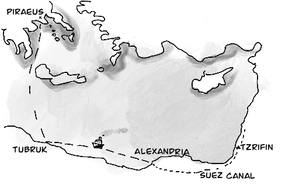
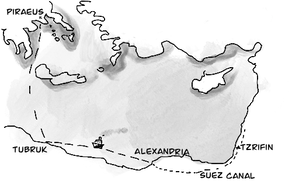
🐛  fixed some pages ending with images

Changed region(s): [[0.0, 0.0, 0.9555, 0.989], [0.0925, 0.5495, 0.1233, 0.6319], [0.2158, 0.8242, 0.2466, 0.8516]]

diff --git a/docs/index.html b/docs/index.html
@@ -442,7 +442,7 @@
             energy.</p>
 
           <figure>
-            <img src="./images/map-bike-trip.png" width="225" height="150"
+            <img src="./images/map-bike-trip.png" width="225" height="150" style="width:200px"
               alt="Map of the 500km cycle from Hessen to Berlin" />
             <figcaption>Cycling From Hessen to Berlin in 24 hours</figcaption>
           </figure>
@@ -829,7 +829,7 @@
             In the worst case scenario it required 2 men to operate, while the rest moved to work in construction.</p>
 
           <figure>
-            <img src="./images/mccormick.png" width="153" height="200" alt="Illustration of a McCormick Hay Presser" />
+            <img src="./images/mccormick.png" width="153" height="185" alt="Illustration of a McCormick Hay Presser" />
             <figcaption>McCormick Hay Presser</figcaption>
           </figure>
         </section>
@@ -1140,7 +1140,7 @@
         <section class="page_content">
           <h2>War</h2>
           <figure>
-            <img src="./images/map-mediterranean.png" width="292" height="195" alt="Map of the Mediterranean sea" />
+            <img src="./images/map-mediterranean.png" width="292" height="182" alt="Map of the Mediterranean sea" />
             <figcaption>Military Service around the Mediterranean</figcaption>
           </figure>
           <p>
@@ -1716,7 +1716,10 @@
             everyone was already asleep. My escort already left and the guard at the gate sent me to a vacant building
             with broken windows. With no blankets, I used straw mattresses to cover myself and I was cold through the
             night.</p>
-
+        </section>
+      </article>
+      <article class="page">
+        <section class="page_content">
           <p>
             In the morning an English doctor examined me and didn’t find anything, but a German doctor who stood by
             asked me to describe my pain. As I did, he immediately hospitalised me. Indeed, the hospital was run by
@@ -1730,14 +1733,17 @@
             building with horrible conditions, but I was lucky that my rank allowed me to stay at the English/Canadian
             building. I spent the time fixing watches and sewing collars, slippers and shortening trousers. These odd
             jobs paid with cigarettes that were used as currency for buying food. The situation wasn’t at all bad.</p>
+
+          <p>
+            Every day we would hear in big speakers the latest news about German advancement in Russia and the common
+            belief that by next Christmas this will all be over and we would go back home. We were sure of it.
+          </p>
         </section>
       </article>
       <article class="page">
         <section class="page_content">
           <p>
-            Every day we would hear in big speakers the latest news about German advancement in Russia and the common
-            belief that by next Christmas this will all be over and we would go back home. We were sure of it. One day,
-            new prisoners arrived - French Canadians who tried to invade <a
+            One day, new prisoners arrived - French Canadians who tried to invade <a
               href="https://en.wikipedia.org/wiki/Dieppe_Raid" target="_blank" rel="noreferrer noopener">Dieppe</a>
             (Normandy, France). It was a cliff area and the Germans were sure it would be impenetrable. At night time
             the British brought the Canadian commandos by boat, shot roped anchors and used them to climb the rocks,
@@ -1747,10 +1753,7 @@
             the Red-Cross parcel strings (they didn’t have any of their own) to tie our hands. They then patrolled
             amongst us to make sure we didn't decuff ourselves. In the evening they would untie us and tie us again the
             next day.</p>
-        </section>
-      </article>
-      <article class="page">
-        <section class="page_content">
+
           <p>It wasn’t comfortable as it was very cold and we couldn’t put hands in our pockets. After a few day they
             broughts handcuffs from the prison with a 30cm chain between them, but not for everyone. In the evening when
             they came to collect the strings and chains they were surprised that everyone was back in strings again (and
@@ -2849,8 +2852,8 @@
             and Shoshana will bring them back home. We are making big preparations and if you don’t come, it’ll all be
             ruined as we don’t have a fridge.</p>
 
-          <figure class="photo" style="width:251px">
-            <img src="./images/letter-2.png" alt="An Invitation" height="320" width="251" />
+          <figure class="photo" style="width:240px">
+            <img src="./images/letter-2.png" alt="An Invitation" height="306" width="240" />
             <figcaption>An Invitation</figcaption>
           </figure>
         </section>

diff --git a/docs/index.css b/docs/index.css
@@ -678,6 +678,8 @@ h2 {
 figure {
   display: block;
   text-align: center; }
+  figure:last-child {
+    margin-bottom: 0; }
   figure img {
     max-width: 100%;
     height: auto; }

diff --git a/src/_page-content.scss b/src/_page-content.scss
@@ -121,6 +121,10 @@ figure {
   display: block;
   text-align: center;
 
+  &:last-child {
+    margin-bottom: 0;
+  }
+
   img {
     max-width: 100%;
     height: auto;
